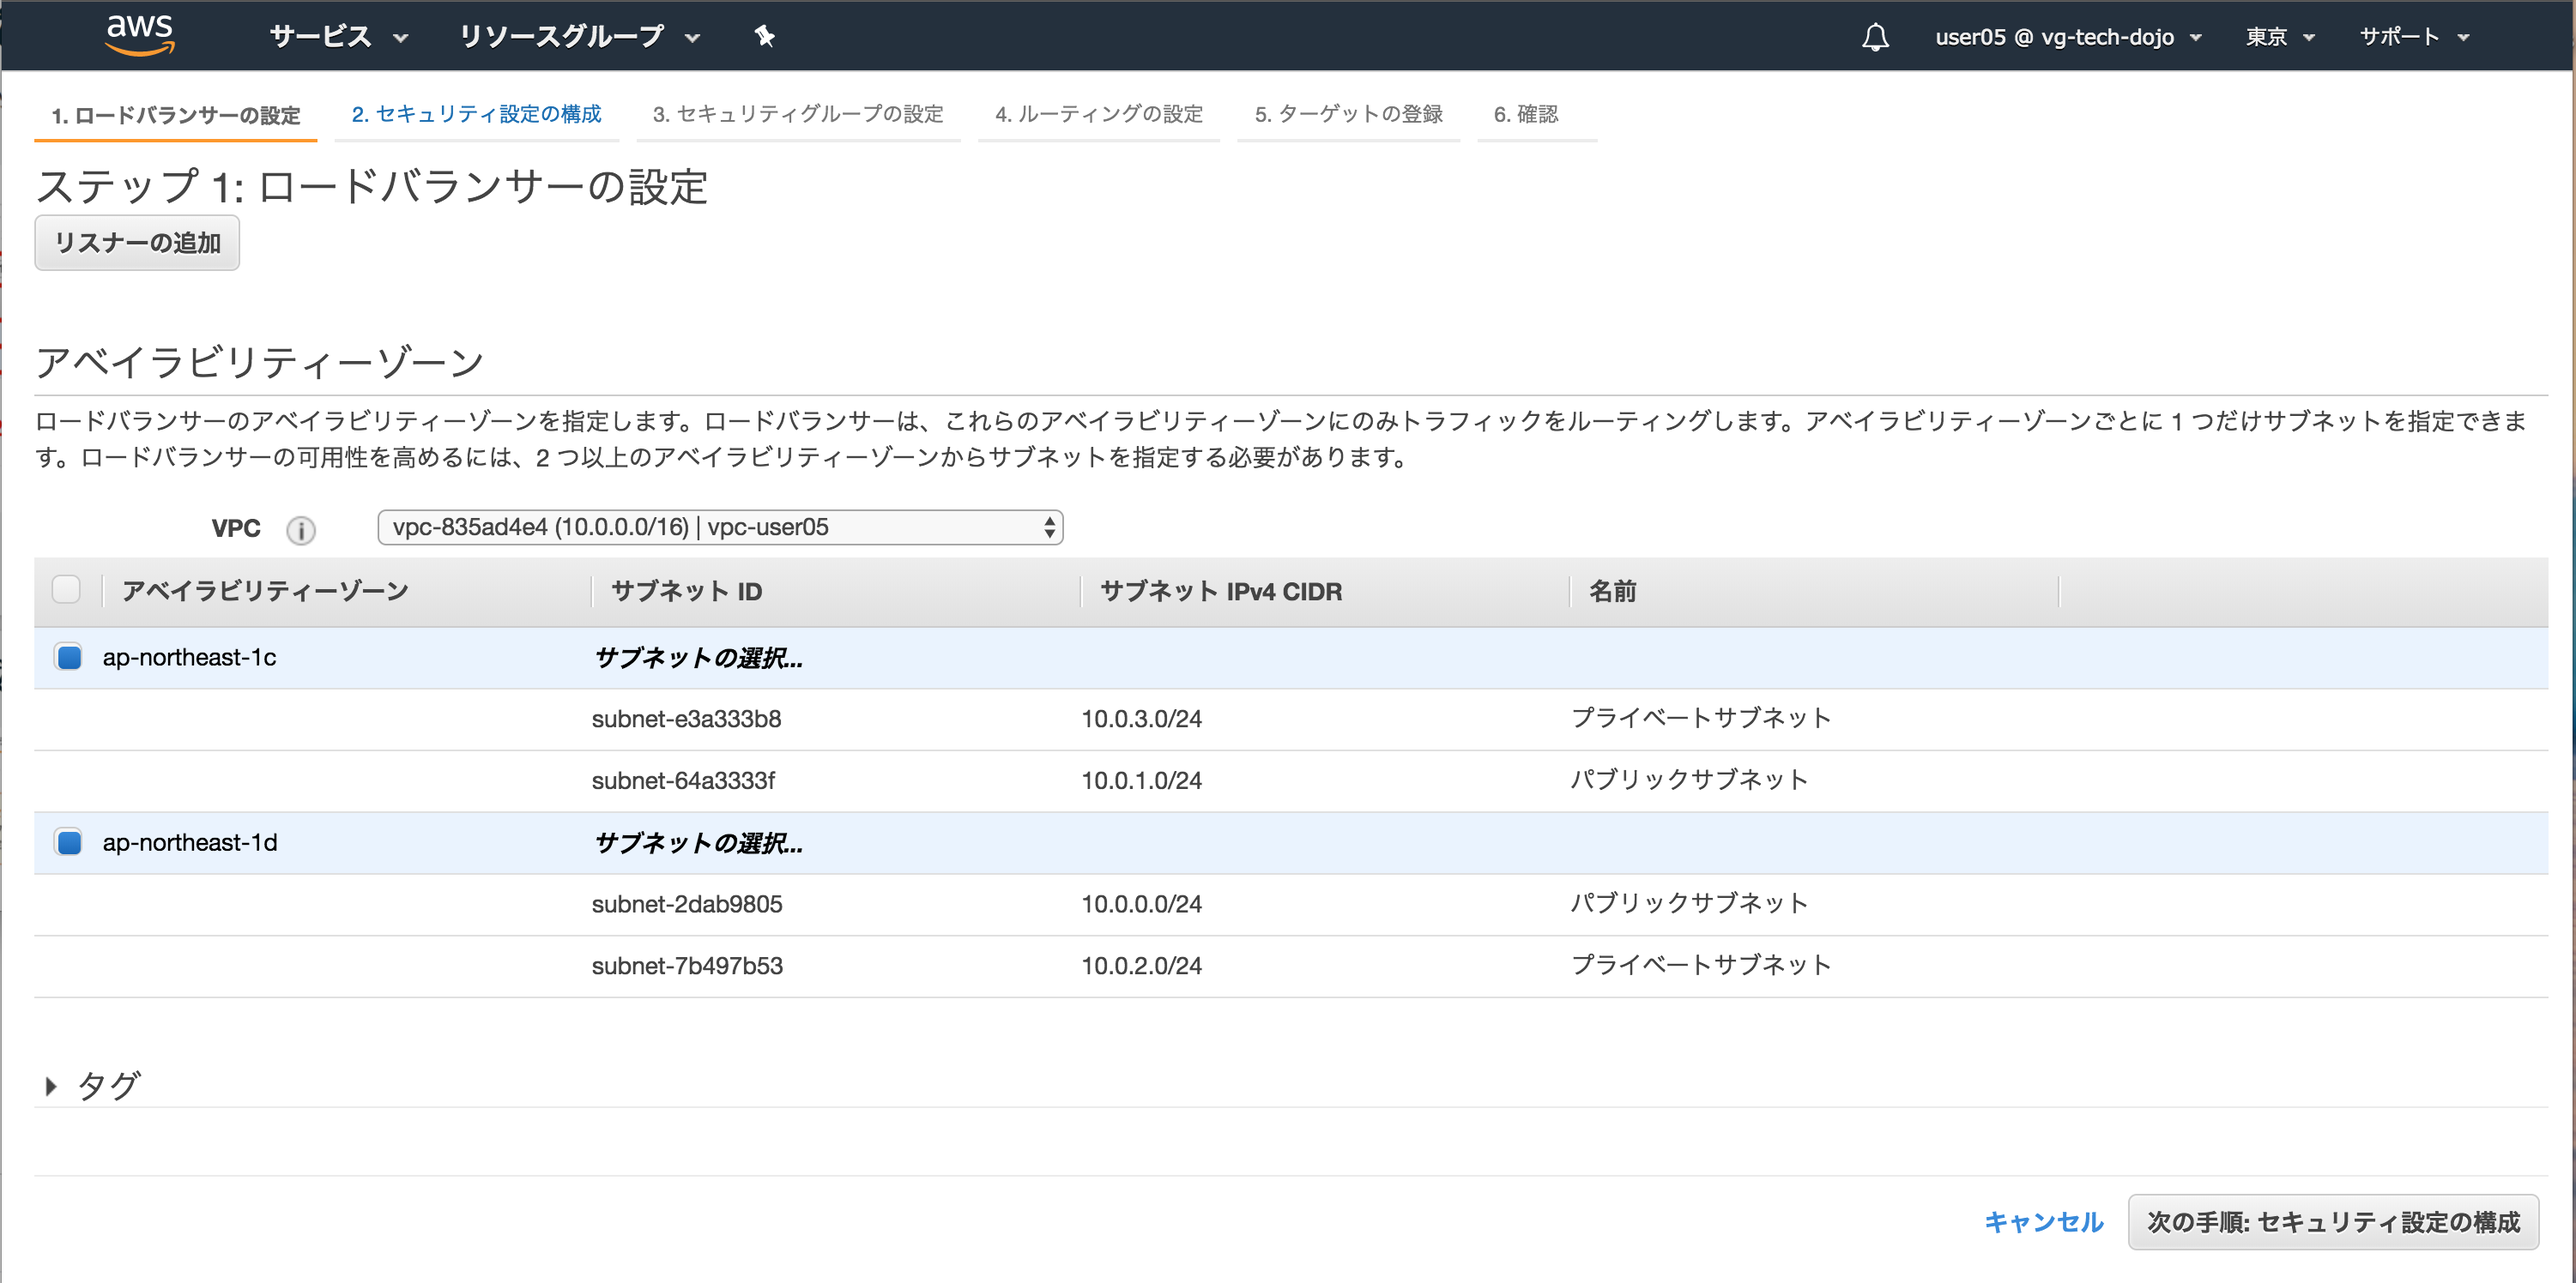
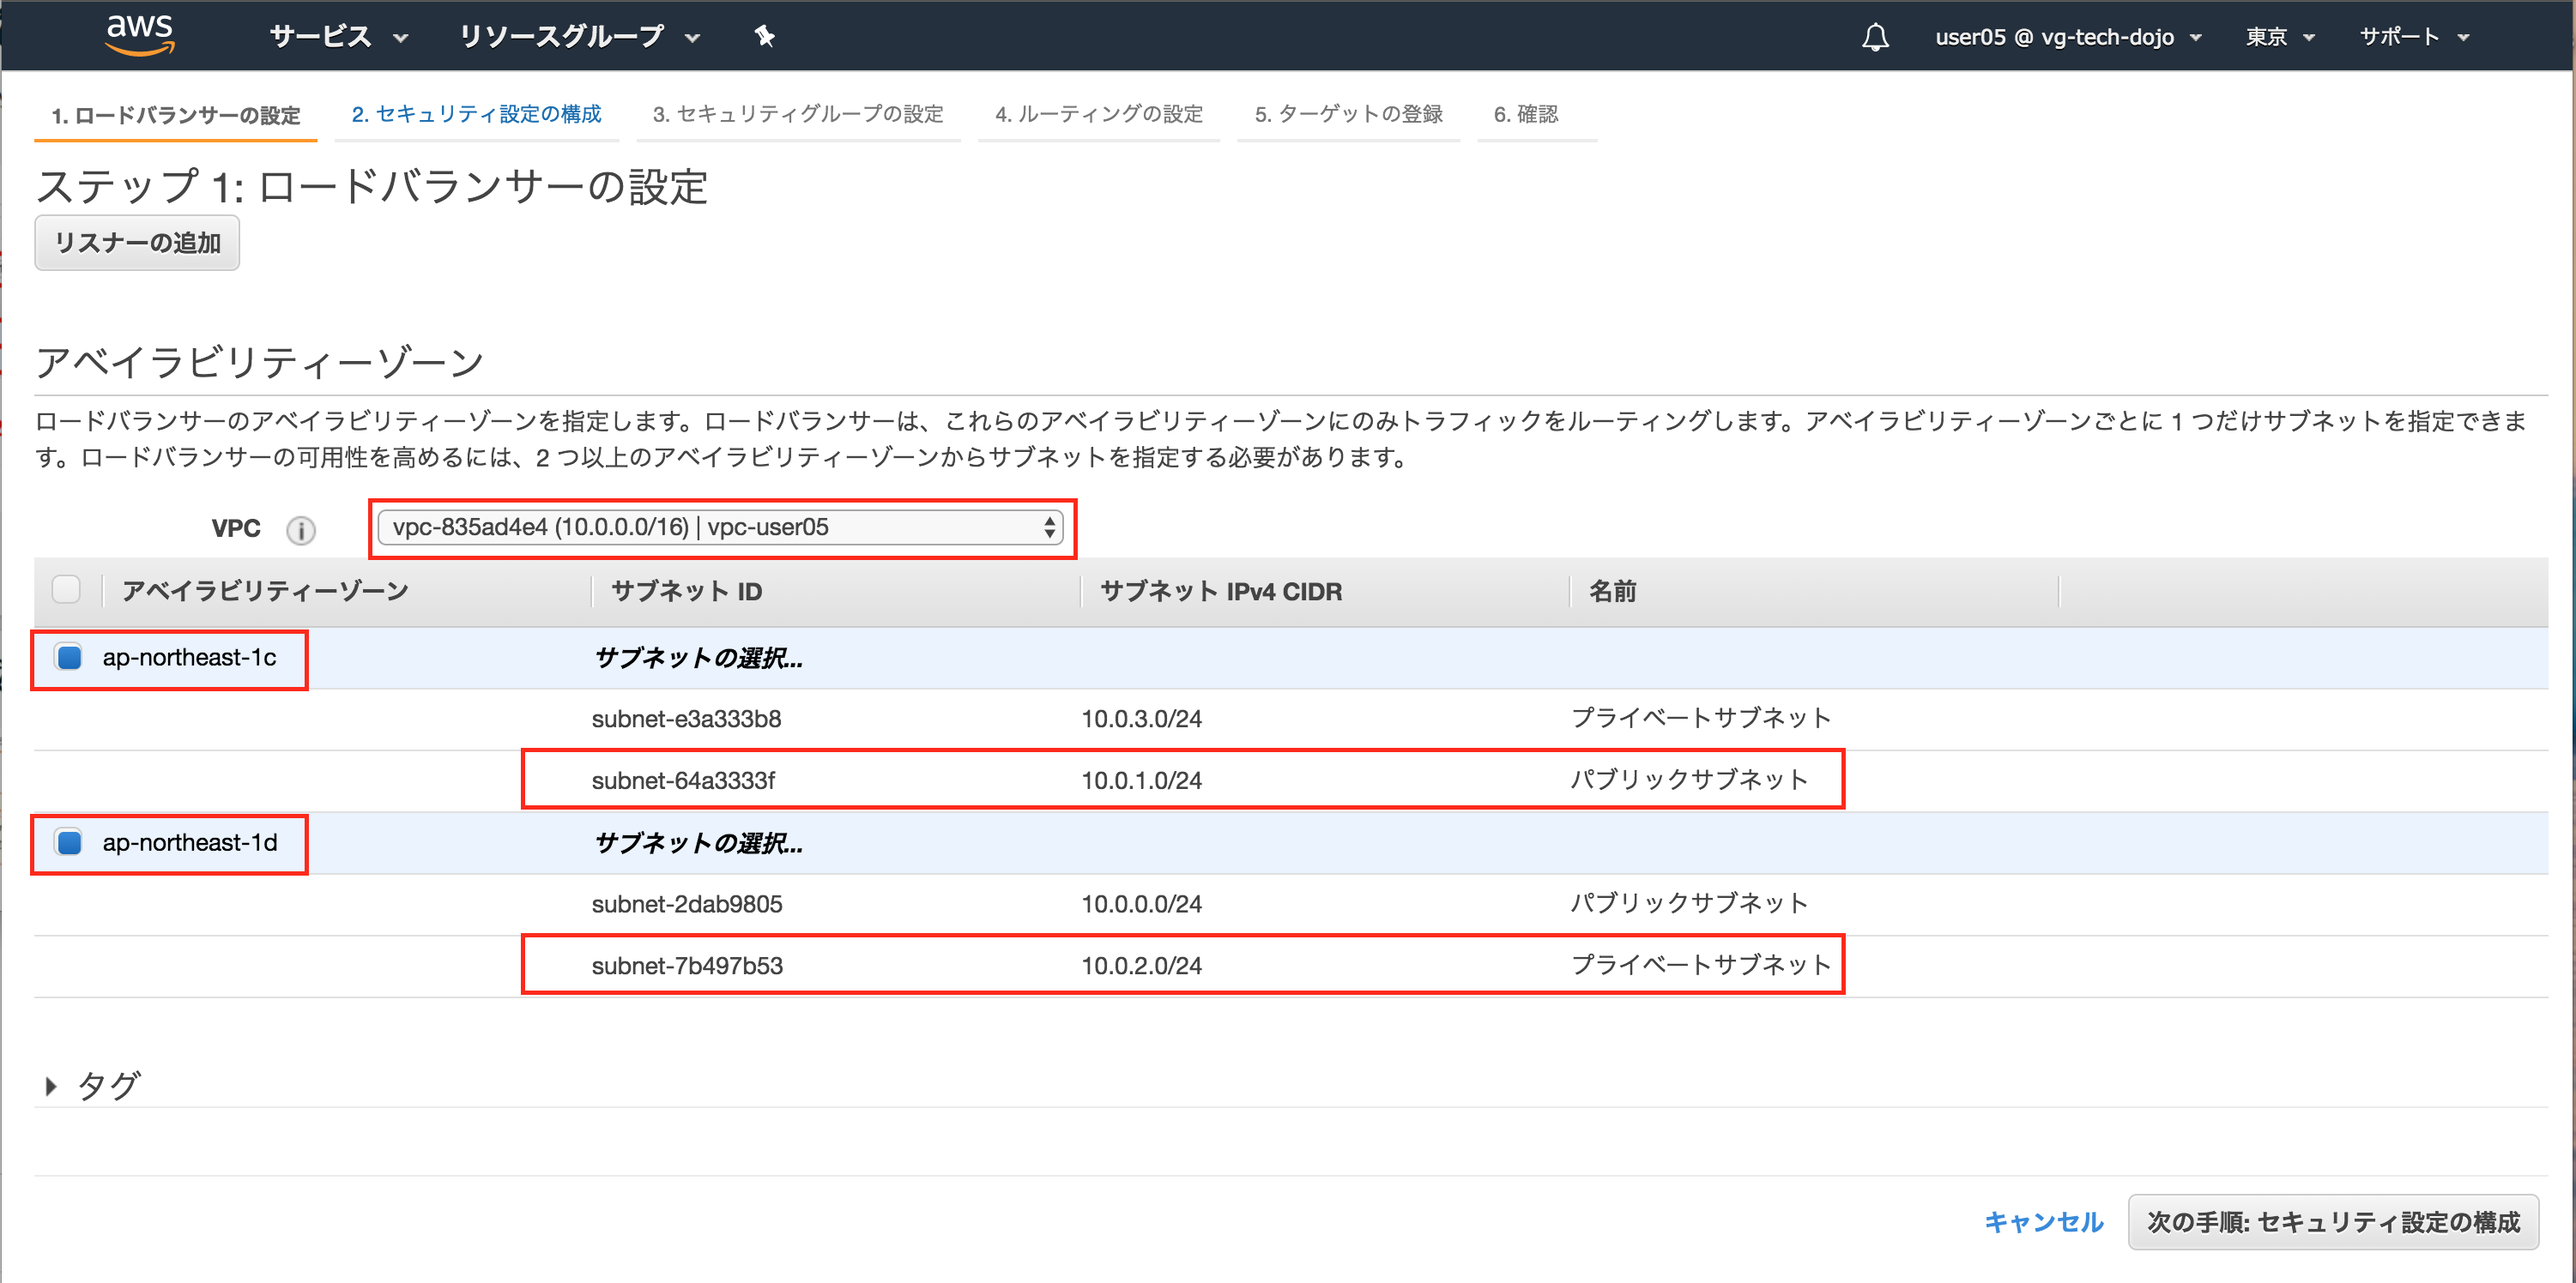
commit

diff --git a/Step-3.md b/Step-3.md
@@ -337,14 +337,18 @@ nameserver 10.0.0.2
 ![create-elb-2](./images/step-3/create-elb-2.png "CREATE-ELB-2")
 
 ----
-**名前は「elb-ユーザ名」を設定しましょう**
+**名前は「elb-ユーザ名」を設定し、下にスクロールしましょう**
 
 ![create-elb-3-1](./images/step-3/create-elb-3-1.png "CREATE-ELB-3-1")
 
 ----
+**Step-1で作成したVPCを選択するとアベイラビリティゾーンの選択ができます。ap-northeast-1c、ap-northeast-1dの両方にチェックし、表示されたパブリックサブネットを両方選択しましょう**
+
 ![create-elb-3-2](./images/step-3/create-elb-3-2.png "CREATE-ELB-3-2")
 
 ----
+**ap-northeast-1c、ap-northeast-1dのパブリックサブネットが表示されていれば成功です。次の手順：セキュリティ設定の構成ボタンを押下**
+
 ![create-elb-3-3](./images/step-3/create-elb-3-3.png "CREATE-ELB-3-3")
 
 ----
